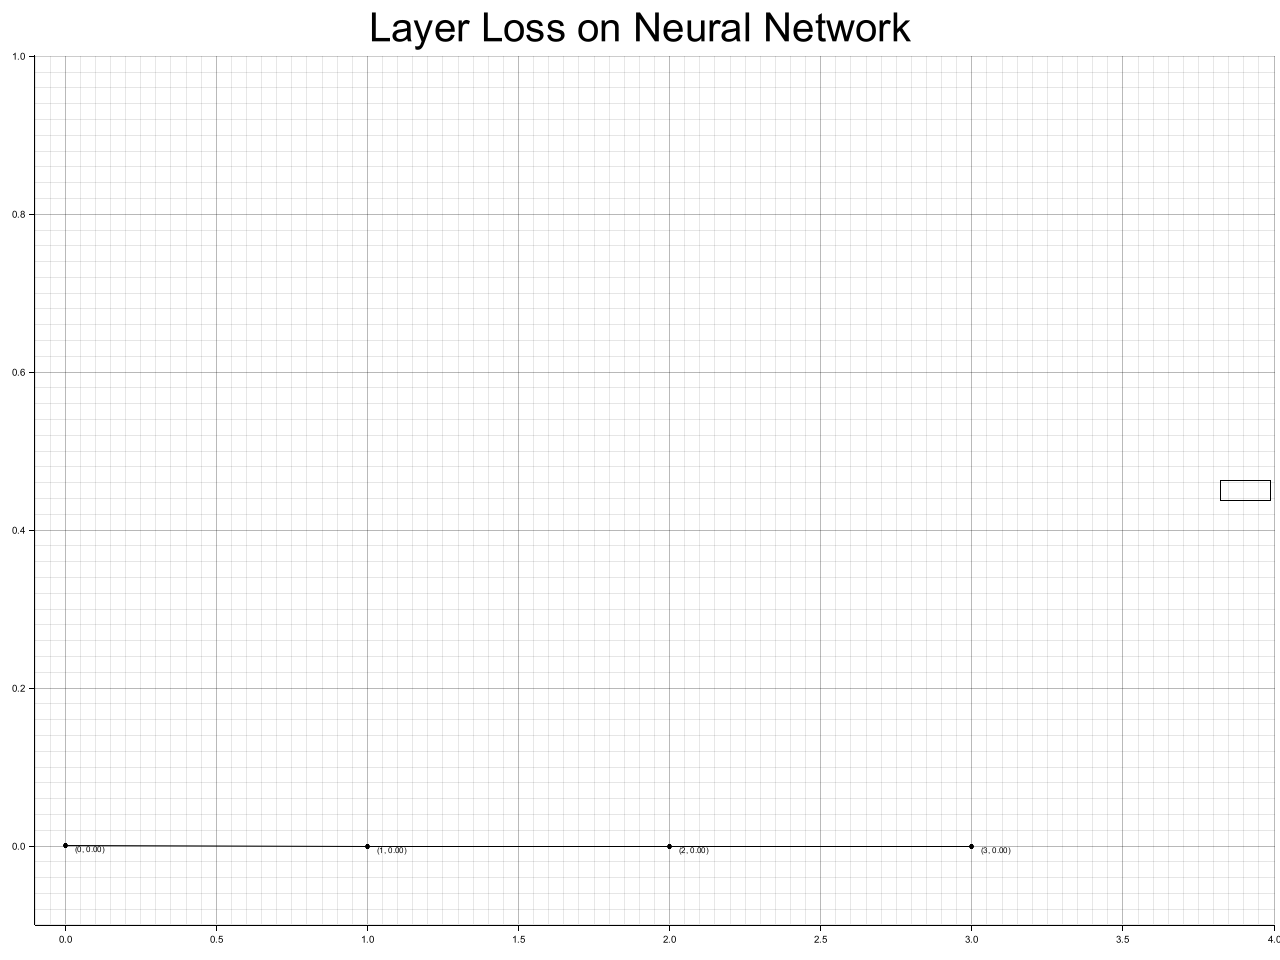
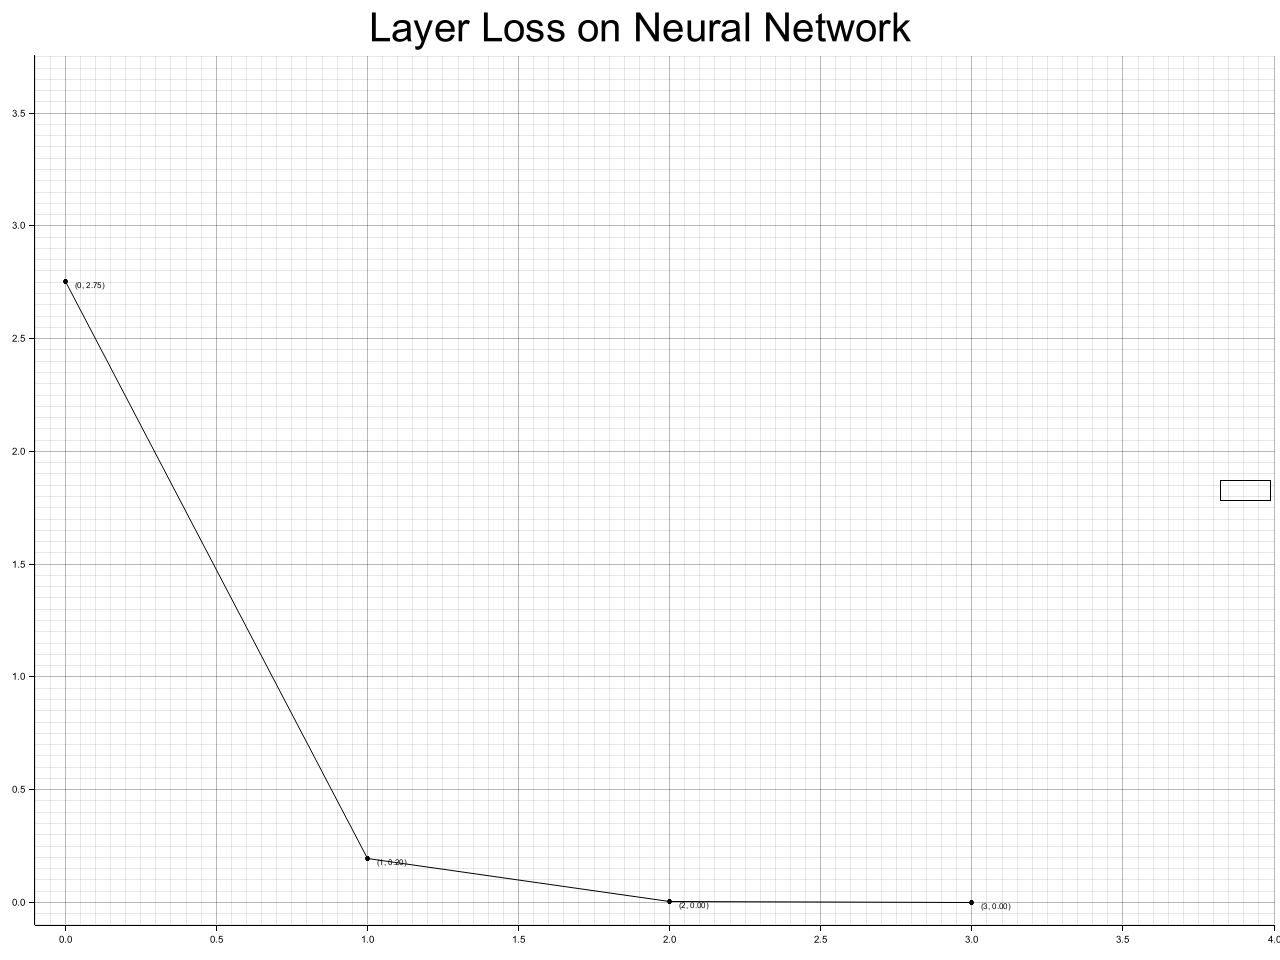
fixed batch ordering

Changed region(s): [[0.0, 0.1562, 1.0, 0.625], [0.0312, 0.6562, 1.0, 0.9688], [0.0312, 0.0625, 1.0, 0.125]]

diff --git a/src/network/network.rs b/src/network/network.rs
@@ -169,23 +169,21 @@ impl Network{
     ///* `epochs` - How many epochs you want your model training for
     ///
     pub fn fit(&mut self, train_in: Vec<Vec<f32>>, train_out: Vec<Vec<f32>>, epochs: usize){
-        //Use batch size to split up data into sub-batches :)
-
         let mut input_batch: Box<dyn Input>;
         let mut output_batch: Box<dyn Input>;
 
-
         self.loss_train = vec![];
-        let mut loss: f32 = 0.0;
+        let mut loss: f32;
         for _ in 0..epochs {
             loss = 0.0;
-            for _ in 0..ITERATIONS_PER_EPOCH{
-                for i in 0..(train_in.len() / self.batch_size) + 1{
+            for i in 0..(train_in.len() / self.batch_size) + 1{
 
-                    input_batch = self.get_batch(&train_in, i);
-                    let inputs = input_batch.to_param_2d();
-                    output_batch = self.get_batch(&train_out, i);
-                    let outputs = output_batch.to_param_2d();
+                input_batch = self.get_batch(&train_in, i);
+                let inputs = input_batch.to_param_2d();
+                output_batch = self.get_batch(&train_out, i);
+                let outputs = output_batch.to_param_2d();
+
+                for _ in 0..ITERATIONS_PER_EPOCH{
                     for input in 0..inputs.len(){
                         let mut loss_on_input: f32 = 0.0;
                         let inp: Box<dyn Input> = Box::new(inputs[input].clone());
